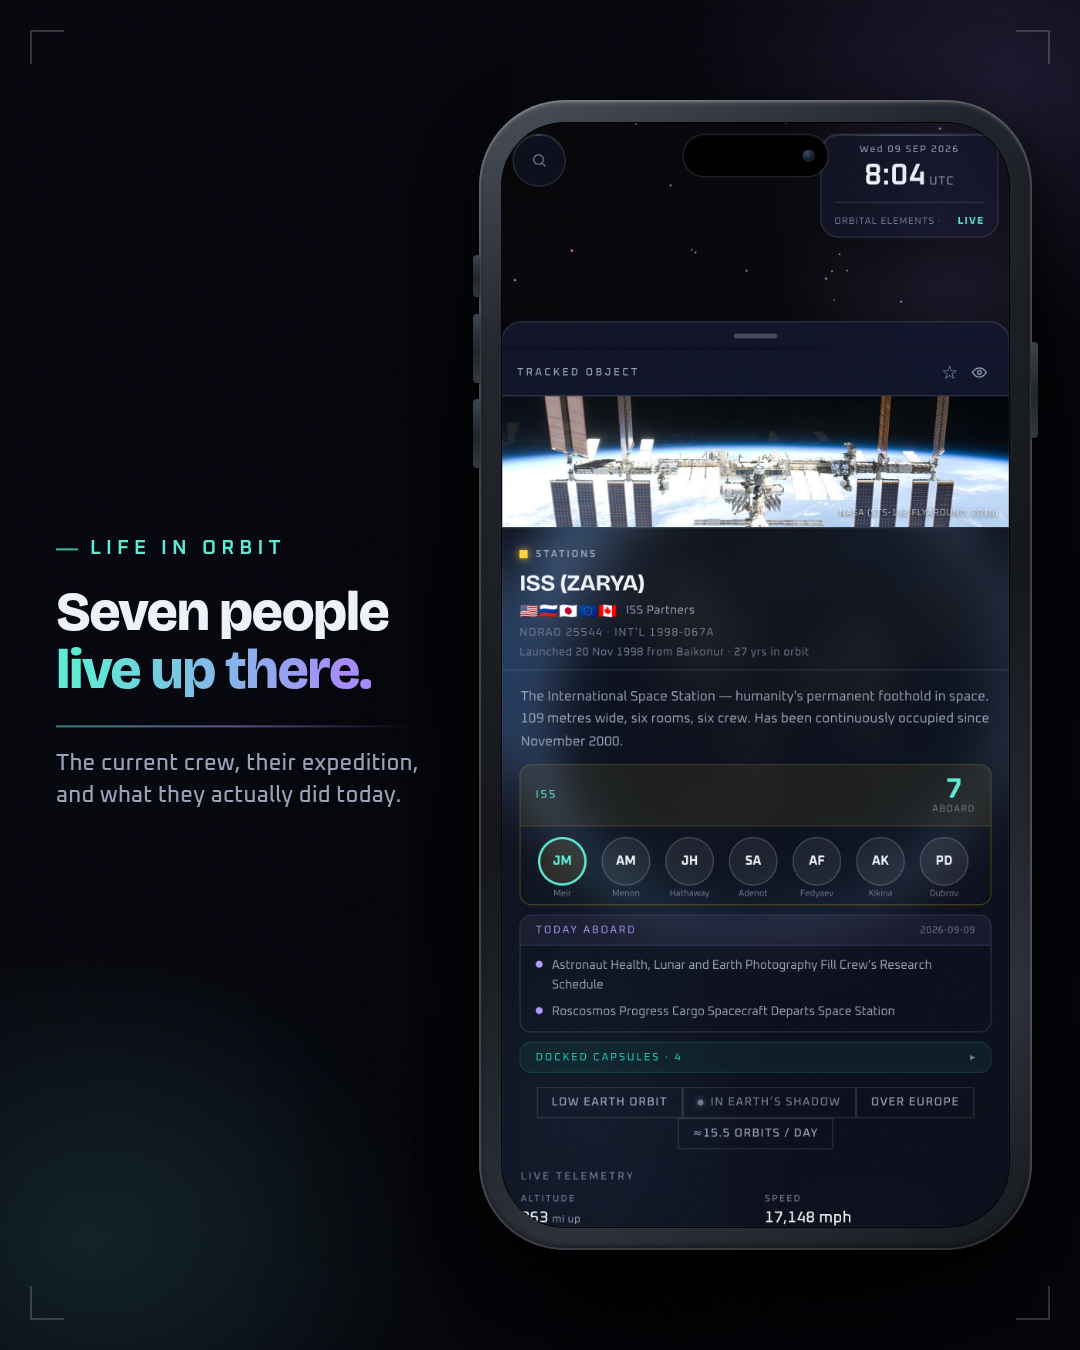
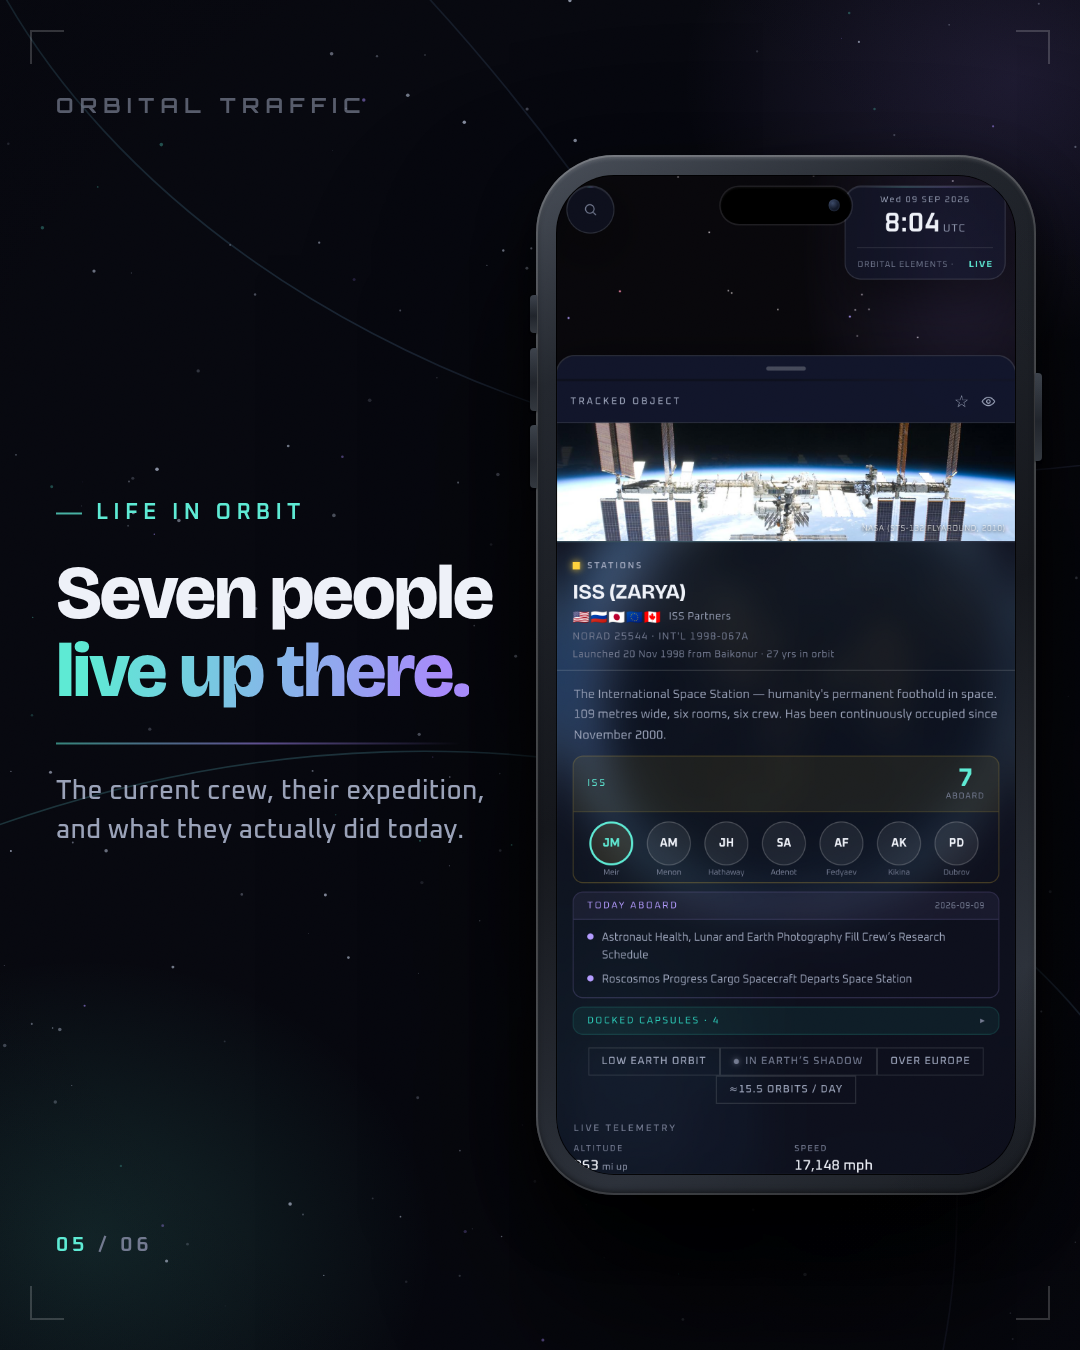
Restyle the Instagram variant: fuller type, and a background that holds it
The 4:5 frame leaves a tall, narrow column beside the phone, and the first
pass left most of it empty.

Rebalanced the split: the phone drops from 553px to 500px wide and the copy
column grows from 387px to 440px. That extra measure is what makes a 76px
headline possible where 56px was the ceiling before — the type now fills
the column rather than floating in it. The two longest headlines keep
their own smaller sizes so neither orphans a word onto an extra line.

Type alone cannot fill a column this shape without absurd wrapping, so the
background does the rest of the work. render-instagram.mjs now generates a
seeded starfield and three wide orbital arcs behind the phone, both lifted
from what the app itself draws rather than invented decoration, and both
kept low enough in opacity that the phone stays the brightest thing in
frame. The seed is the frame's file name, so each slide gets its own sky
and every re-render reproduces it.

The column is anchored top and bottom by a wordmark and a carousel
counter. These are furniture, not marketing copy — the wordmark says whose
app it is when one slide is reshared alone, and the counter is the usual
carousel convention — and both sit far below the headline in contrast.
They are two lines to delete if they ever read as clutter.

Added IG_H1=<px> to render the whole set at one headline size, overriding
the per-shot values, so type scales can be compared side by side instead
of guessed at.
[…]

diff --git a/exports/app-store-screenshots/tooling/instagram.css b/exports/app-store-screenshots/tooling/instagram.css
@@ -11,6 +11,12 @@
    occupy just over half the width, which leaves a real column for the copy
    rather than a gutter. */
 
+@font-face {
+  font-family: "Orbitron";
+  font-weight: 700;
+  src: url("../../../apps/web/public/fonts/orbitron-latin.woff2") format("woff2");
+}
+
 html,
 body {
   width: 1080px;
@@ -22,14 +28,19 @@ body {
   height: 1350px;
 
   /* Device geometry, same derivation as device.css, re-solved for a phone
-     that stands 1150px tall instead of 1975px. */
-  --device-w: 553px;
-  --bezel: 22px; /* 4% of --device-w */
-  --screen-w: 509px; /* --device-w - 2 * --bezel */
-  --screen-h: 1106px; /* --screen-w * 2868/1320 */
-  --screen-r: 64px; /* 12.5% of --screen-w */
-  --body-r: 86px; /* --screen-r + --bezel */
-  --island-scale: 1.1568; /* --screen-w / 440pt */
+     that stands 1040px tall instead of 1975px.
+
+     Deliberately smaller than the phone this variant first shipped with: the
+     copy column was 387px, which capped the headline at a size that left most
+     of the column empty. Giving 53px back to the copy buys a materially bigger
+     type scale, and costs the phone about a tenth of its width. */
+  --device-w: 500px;
+  --bezel: 20px; /* 4% of --device-w */
+  --screen-w: 460px; /* --device-w - 2 * --bezel */
+  --screen-h: 1000px; /* --screen-w * 2868/1320 */
+  --screen-r: 58px; /* 12.5% of --screen-w */
+  --body-r: 78px; /* --screen-r + --bezel */
+  --island-scale: 1.0455; /* --screen-w / 440pt */
 }
 
 /* Softer than the App Store canvas: the glows are anchored to the corners, and
@@ -49,11 +60,20 @@ body {
   );
 }
 
+/* Starfield + orbital arcs, painted over the corner glows and under the phone.
+   Generated per frame in render-instagram.mjs. */
+.backdrop {
+  position: absolute;
+  inset: 0;
+  z-index: 1;
+  display: block;
+}
+
 /* Phone stands full height against the right edge. */
 .device {
-  top: 100px; /* (1350 - 1150) / 2 — optically centred */
+  top: 155px; /* (1350 - 1040) / 2 */
   left: auto;
-  right: 48px;
+  right: 44px;
   transform: none;
 }
 
@@ -86,33 +106,68 @@ body {
   top: 50%;
   left: 56px;
   right: auto;
-  width: 387px;
+  width: 440px;
   transform: translateY(-50%);
 }
 
+/* Column anchors. The copy block is vertically centred and only fills about a
+   third of a 1350px column, so without something holding the top and bottom
+   the frame reads as unfinished. These are furniture, not marketing copy: the
+   wordmark says whose app this is when a slide gets reshared on its own, and
+   the counter is the ordinary carousel convention. Both sit well below the
+   headline in contrast so they frame it rather than compete with it. */
+.brandline {
+  position: absolute;
+  z-index: 6;
+  top: 92px;
+  left: 56px;
+  font-family: "Orbitron", sans-serif;
+  font-weight: 700;
+  font-size: 21px;
+  letter-spacing: 0.3em;
+  color: var(--ink-dim);
+  opacity: 0.55;
+}
+
+.slideno {
+  position: absolute;
+  z-index: 6;
+  bottom: 92px;
+  left: 56px;
+  font-family: "Oxanium", sans-serif;
+  font-weight: 600;
+  font-size: 21px;
+  letter-spacing: 0.2em;
+  color: var(--ink-faint);
+}
+.slideno b {
+  font-weight: 600;
+  color: var(--teal);
+}
+
 .eyebrow {
-  font-size: 20px;
-  letter-spacing: 0.26em;
-  gap: 12px;
+  font-size: 22px;
+  letter-spacing: 0.24em;
+  gap: 14px;
 }
 .eyebrow::before {
-  width: 22px;
+  width: 26px;
 }
 
 h1 {
-  margin-top: 22px;
-  font-size: 56px;
-  line-height: 1.04;
-  letter-spacing: -0.028em;
+  margin-top: 28px;
+  font-size: 76px;
+  line-height: 1.02;
+  letter-spacing: -0.03em;
 }
 
 .rule {
-  margin-top: 26px;
+  margin-top: 32px;
 }
 
 .sub {
-  margin-top: 22px;
-  font-size: 22px;
-  line-height: 1.45;
+  margin-top: 28px;
+  font-size: 26px;
+  line-height: 1.5;
   max-width: none;
 }

diff --git a/exports/app-store-screenshots/README.md b/exports/app-store-screenshots/README.md
@@ -113,10 +113,39 @@ simply much taller than the frame — so this variant is device-framed, reusing
 `device.css` unchanged with its geometry variables re-solved for a 1150px-tall
 phone.
 
+The column is 440px and the phone 500px wide — deliberately a smaller phone
+than this variant first shipped with. At 387px the copy column capped the
+headline at a size that left most of a 1350px column empty; handing 53px back
+to the copy buys a much bigger type scale (76px headlines against the original
+56px) and costs the phone about a tenth of its width.
+
+**The background carries the rest.** Type alone cannot fill a column this tall
+and narrow without absurd wrapping, so `render-instagram.mjs` generates a
+seeded starfield and three wide orbital arcs behind the phone. Both are lifted
+from what the app itself draws — `scene/starfield.js` and the orbit rings in
+`scene/trail.js` — rather than invented decoration, and both sit low enough in
+opacity that the phone stays the brightest thing in frame. The seed comes from
+the frame's file name, so every slide gets its own sky and every re-render
+reproduces it exactly.
+
+**The column is anchored top and bottom** by a wordmark and a carousel counter.
+These are furniture rather than marketing copy: the wordmark says whose app it
+is when a single slide gets reshared, and the counter is the ordinary carousel
+convention. Both sit far below the headline in contrast, so they frame it
+instead of competing. Deleting the two lines in `render-instagram.mjs` removes
+them cleanly if they ever read as clutter.
+
+`IG_H1=<px>` renders the whole set at one headline size, overriding the
+per-shot values — for trialling type scales side by side rather than guessing:
+
+```bash
+IG_H1=68 node exports/app-store-screenshots/tooling/render-instagram.mjs
+```
+
 Two details specific to this measure:
 
 - **Headlines are re-typeset, not rewritten.** The App Store copy carries hard
-  `<br>` breaks tuned to a 1128px column; at 387px the interior ones land
+  `<br>` breaks tuned to a 1128px column; at 440px the interior ones land
   mid-phrase, so they are dropped and the text flows. The break immediately
   before the gradient `<em>` is kept — without it you get "Look up. It's /
   crowded.", splitting the gradient across two lines. The words, and which of
